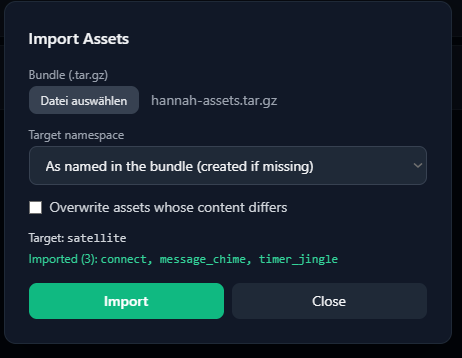
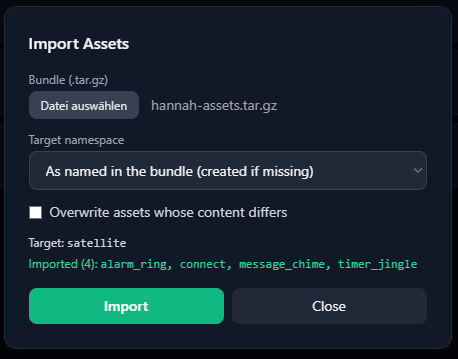
docs(asset-server): update import screenshots for the four-asset bundle

diff --git a/docs/components/asset-server/configuration.md b/docs/components/asset-server/configuration.md
@@ -101,11 +101,11 @@ Satelliten enthält (`alarm_ring`, `connect`, `message_chime` und `timer_jingle`
 
 3. Mit **Import** bestätigen. Der Dialog zeigt dir danach, was eingespielt wurde:
 
-    ![Import-Ergebnis: Target satellite, Imported (3): connect, message_chime, timer_jingle](../../assets/img/asset-server/import-result.png)
+    ![Import-Ergebnis: Target satellite, Imported (4): alarm_ring, connect, message_chime, timer_jingle](../../assets/img/asset-server/import-result.png)
 
 Im Tab **Assets** siehst du die Sounds jetzt, wenn du den Namespace `satellite` auswählst:
 
-![Asset-Liste des Namespace satellite mit connect, message_chime und timer_jingle](../../assets/img/asset-server/assets-list.png)
+![Asset-Liste des Namespace satellite mit alarm_ring, connect, message_chime und timer_jingle](../../assets/img/asset-server/assets-list.png)
 
 !!! note "Bereits vorhandene Sounds"
     Hast du einen Sound mit demselben Namen schon selbst angelegt, ersetzt der Import ihn nur,
